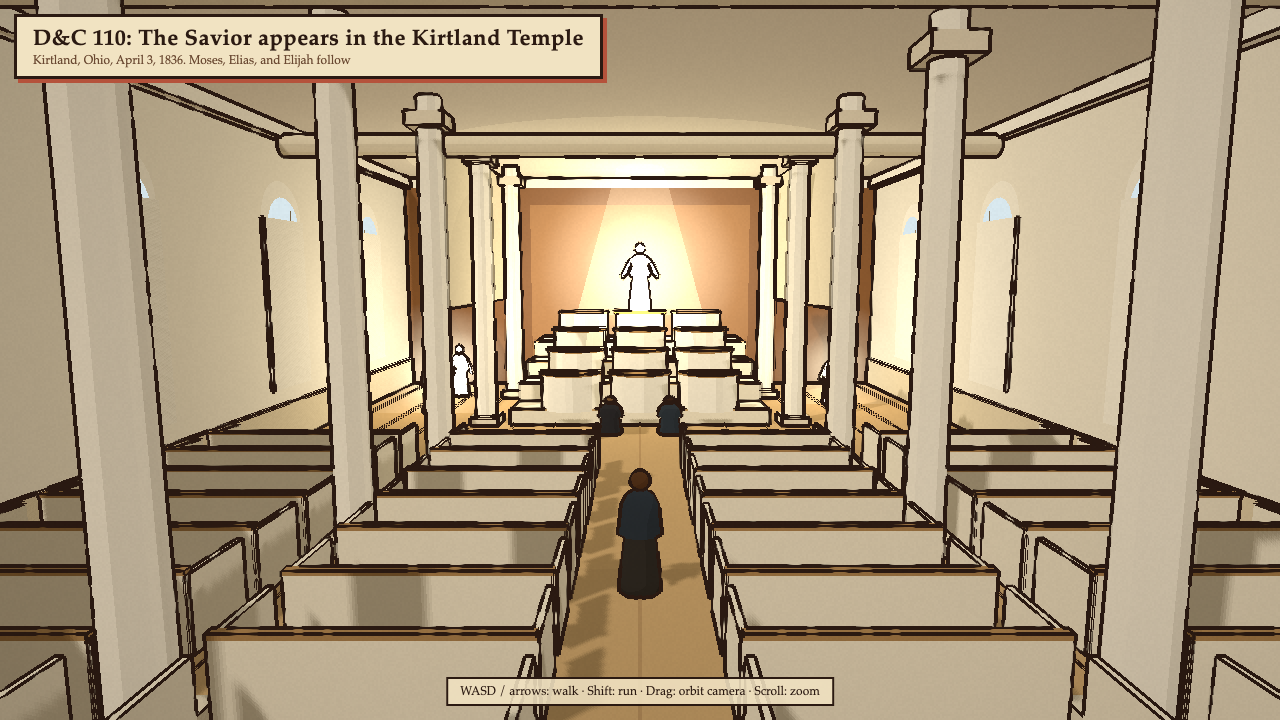
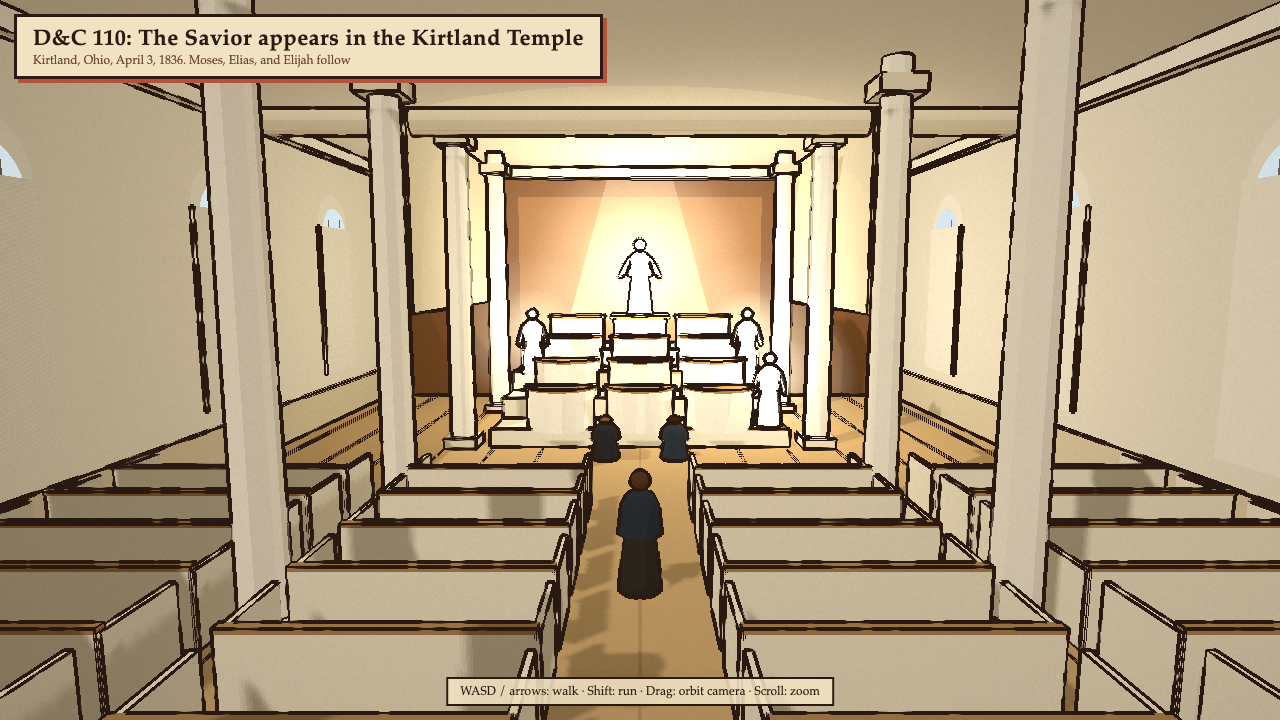
feat: polish toon scenes dc-08 to dc-14

diff --git a/styles/toon/scenes/dc-14.js b/styles/toon/scenes/dc-14.js
@@ -4,7 +4,7 @@
 import { Batch, baseStyle, box, cyl, glow, heavenly, makeRng, stars } from './lib/dc-08-kit.js';
 
 const LORD = [0, -30];
-const GULF_X = 76;
+const GULF_X = 42;
 
 function custom(ctx) {
   const { THREE } = ctx;
@@ -14,27 +14,33 @@ function custom(ctx) {
 
   // A low round dais where the Savior stands.
   const [lx, lz] = LORD;
-  b.add('#f4ecd8', cyl(6, 6.3, 0.5, [lx, 0.25, lz], [0, 0, 0], 40));
-  b.add('#fbf6ea', cyl(3.6, 3.8, 0.5, [lx, 0.75, lz], [0, 0, 0], 40));
-  ctx.addCollider({ x: lx, z: lz, hx: 4.6, hz: 4.6, rot: 0, top: 0.5, walkable: true });
-  ctx.addCollider({ x: lx, z: lz, hx: 2.7, hz: 2.7, rot: 0, top: 1.0, walkable: true });
+  b.add('#f4ecd8', cyl(6, 6.3, 0.6, [lx, 0.3, lz], [0, 0, 0], 40));
+  b.add('#fbf6ea', cyl(3.6, 3.8, 0.8, [lx, 1.0, lz], [0, 0, 0], 40));
+  ctx.addCollider({ x: lx, z: lz, hx: 4.6, hz: 4.6, rot: 0, top: 0.6, walkable: true });
+  ctx.addCollider({ x: lx, z: lz, hx: 2.7, hz: 2.7, rot: 0, top: 1.4, walkable: true });
 
   // The gulf: a dark rift running north and south, and a bridge of light across it.
-  b.add('#0c0c16', box(GULF_X - 64 + 8, 0.06, 700, [GULF_X, 0.05, 0]), { glow: true });
+  b.add('#0c0c16', box(20, 0.06, 700, [GULF_X, 0.05, 0]), { glow: true });
   for (const sx of [-1, 1]) b.add('#2a2a3a', box(0.6, 0.12, 700, [GULF_X + sx * 10, 0.07, 0]), { cast: false });
   ctx.addCollider({ x: GULF_X, z: (lz - 1.6 - 350) / 2, hx: 10, hz: (lz - 1.6 + 350) / 2, rot: 0, top: 0.8 });
   ctx.addCollider({ x: GULF_X, z: (lz + 1.6 + 350) / 2, hx: 10, hz: (350 - lz - 1.6) / 2, rot: 0, top: 0.8 });
   b.add('#ffe8b0', box(GULF_X - 6, 0.08, 2.8, [(GULF_X + 18) / 2 + 3, 0.09, lz]), { glow: true });
   b.add('#fff4d8', box(26, 0.1, 1.2, [GULF_X + 13, 0.1, lz]), { glow: true });
-  for (let i = 0; i < 28; i++) {
-    const z = -300 + rng() * 600;
-    glow(ctx, { pos: [GULF_X + (rng() - 0.5) * 8, 1 + rng() * 3, z], size: 10 + rng() * 10, color: '#141420', opacity: 0.6, pulse: 0.03, additive: false });
+  for (let i = 0; i < 40; i++) {
+    const z = -160 + rng() * 260;
+    glow(ctx, { pos: [GULF_X + (rng() - 0.5) * 8, 2 + rng() * 5, z], size: 12 + rng() * 10, color: '#141420', opacity: 0.7, pulse: 0.03, additive: false });
+  }
+  const arch = new THREE.QuadraticBezierCurve3(new THREE.Vector3(GULF_X - 13, 0, lz), new THREE.Vector3(GULF_X, 11, lz), new THREE.Vector3(GULF_X + 13, 0, lz));
+  b.add('#fff2c8', new THREE.TubeGeometry(arch, 32, 0.45, 8), { glow: true, cast: false });
+  for (let i = 0; i <= 8; i++) {
+    const p = arch.getPoint(i / 8);
+    glow(ctx, { pos: [p.x, p.y, p.z], size: 5, color: '#ffe6a8', opacity: 0.5, pulse: 0.06 });
   }
   for (let i = 0; i < 12; i++) glow(ctx, { pos: [GULF_X - 6 + i * 2.6, 0.4, lz], size: 2.6, color: '#ffe6a8', opacity: 0.45, pulse: 0.08 });
   b.flush();
 
   // The Savior in white, with light about him.
-  heavenly(ctx, { pos: LORD, y: 1.0, face: [0, 20], scale: 1.3, glowAmt: 0.75, halo: 10, light: { color: '#fff0c8', intensity: 30, distance: 30 }, arms: [0.6, 0.35] });
+  heavenly(ctx, { pos: LORD, y: 1.4, face: [-30, -12], scale: 1.7, glowAmt: 0.75, halo: 10, light: { color: '#fff0c8', intensity: 30, distance: 30 }, arms: [0.6, 0.35] });
 
   // Drifting motes of light over the gathering.
   const n = 260;
@@ -119,16 +125,16 @@ export default {
     aisles: [{ from: [0, 40], to: [0, -24], width: 3.4 }],
     keepClear: [{ kind: 'circle', x: LORD[0], z: LORD[1], r: 6.6 }],
     groups: [
-      { center: LORD, radius: [7, 46], angle: [-Math.PI, 1.38], count: 1500, kneel: 0.25, children: 0.1 },
-      { center: LORD, radius: [7, 46], angle: [1.76, Math.PI], count: 600, kneel: 0.25, children: 0.1 },
-      { shape: 'rect', center: [50, LORD[1]], size: [80, 2.2], count: 70, insideClear: true, facing: [2000, LORD[1]], facingJitter: 0.1, lean: 0.12 },
-      { shape: 'rect', center: [GULF_X + 70, 0], size: [100, 220], count: 900, kneel: 0.15, colors: PRISON, facing: [GULF_X, LORD[1]], facingJitter: 0.8 },
+      { center: LORD, radius: [7, 32], angle: [-Math.PI, 1.38], count: 850, kneel: 0.25, children: 0.1 },
+      { center: LORD, radius: [7, 32], angle: [1.76, Math.PI], count: 330, kneel: 0.25, children: 0.1 },
+      { shape: 'rect', center: [(8 + GULF_X + 14) / 2, LORD[1]], size: [GULF_X + 6, 2.2], count: 50, insideClear: true, facing: [2000, LORD[1]], facingJitter: 0.1, lean: 0.12 },
+      { shape: 'rect', center: [GULF_X + 42, LORD[1] - 20], size: [60, 170], count: 900, kneel: 0.15, colors: PRISON, facing: [GULF_X, LORD[1]], facingJitter: 0.8 },
     ],
   },
 
   player: {
-    start: [0, -5],
-    lookAt: LORD,
+    start: [9, -12],
+    lookAt: [30, -80],
     colors: { robe: '#efe6d0', mantle: '#f8f4ea', skin: '#c08f66', hair: '#3a2418', sash: '#e6dcc4' },
   },
 };

diff --git a/styles/toon/scenes/dc-11.js b/styles/toon/scenes/dc-11.js
@@ -2,8 +2,9 @@
 // the temple on the bluff to the east. x is east, z is south. The river wraps the west and south sides.
 import { Batch, SAINTS, baseStyle, box, cyl, frameHouse, gableGeo, glow, leafTree, logCabin, makeRng, saint, water, xf } from './lib/dc-08-kit.js';
 
-const BLUFF_X = 40, BLUFF_TOP = 58, BLUFF_H = 9;
-const TEMPLE = [112, 22];
+const BLUFF_X = 40, BLUFF_TOP = 54, BLUFF_H = 18;
+const FACE = [[40, 0], [43, 6], [50, 14.5], [54, 18]];
+const TEMPLE = [84, 22];
 const START = [-58, 70];
 const RIVER_W = -95, RIVER_S = 92;
 const STONE = '#ebe3cf';
@@ -43,31 +44,50 @@ function river(ctx) {
 
 function bluff(ctx, b) {
   const { THREE } = ctx;
-  const s = new THREE.Shape();
-  s.moveTo(BLUFF_X, 0);
-  s.lineTo(BLUFF_X + 6, BLUFF_H * 0.45);
-  s.lineTo(BLUFF_TOP, BLUFF_H);
-  s.lineTo(420, BLUFF_H);
-  s.lineTo(420, -1);
-  s.lineTo(BLUFF_X, -1);
-  s.closePath();
-  const g = new THREE.ExtrudeGeometry(s, { depth: 380, bevelEnabled: false });
-  g.translate(0, 0, -300);
-  const m = new THREE.Mesh(g, ctx.kit.toon('#8aa058'));
-  m.receiveShadow = m.castShadow = true;
-  ctx.scene.add(m);
-  // Walkable slope as a run of shallow steps.
-  const n = 24;
+  const slab = (points, color) => {
+    const s = new THREE.Shape();
+    s.moveTo(...points[0]);
+    for (const p of points.slice(1)) s.lineTo(...p);
+    s.closePath();
+    const g = new THREE.ExtrudeGeometry(s, { depth: 380, bevelEnabled: false });
+    g.translate(0, 0, -300);
+    const m = new THREE.Mesh(g, ctx.kit.toon(color));
+    m.receiveShadow = m.castShadow = true;
+    ctx.scene.add(m);
+  };
+  slab([...FACE, [BLUFF_TOP, -1], [BLUFF_X, -1]], '#76844c');
+  slab([[BLUFF_TOP, BLUFF_H], [420, BLUFF_H], [420, -1], [BLUFF_TOP, -1]], '#8aa058');
+  // Walkable face as a run of shallow steps.
+  const faceY = (x) => {
+    for (let k = 1; k < FACE.length; k++) {
+      const [ax, ay] = FACE[k - 1], [bx, by] = FACE[k];
+      if (x <= bx) return ay + ((x - ax) / (bx - ax)) * (by - ay);
+    }
+    return BLUFF_H;
+  };
+  const n = 48;
   for (let i = 0; i < n; i++) {
     const x0 = BLUFF_X + (i / n) * (BLUFF_TOP - BLUFF_X), x1 = BLUFF_X + ((i + 1) / n) * (BLUFF_TOP - BLUFF_X);
     const xm = (x0 + x1) / 2;
-    const t = (xm - BLUFF_X) / (BLUFF_TOP - BLUFF_X);
-    const y = t < 0.33 ? (t / 0.33) * BLUFF_H * 0.45 : BLUFF_H * 0.45 + ((t - 0.33) / 0.67) * BLUFF_H * 0.55;
+    const y = faceY(xm);
     ctx.addCollider({ x: xm, z: -110, hx: (x1 - x0) / 2, hz: 190, rot: 0, top: y, walkable: true });
   }
   ctx.addCollider({ x: (BLUFF_TOP + 420) / 2, z: -110, hx: (420 - BLUFF_TOP) / 2, hz: 190, rot: 0, top: BLUFF_H, walkable: true });
   // A path climbing the bluff toward the temple.
-  b.add('#c8aa78', xf(new THREE.PlaneGeometry(BLUFF_TOP - BLUFF_X + 2, 5), { pos: [(BLUFF_X + BLUFF_TOP) / 2, BLUFF_H / 2 + 0.12, TEMPLE[1]], rot: [-Math.PI / 2, 0, -Math.atan2(BLUFF_H, BLUFF_TOP - BLUFF_X)] }), { cast: false });
+  for (let k = 1; k < FACE.length; k++) {
+    const [ax, ay] = FACE[k - 1], [bx, by] = FACE[k];
+    const len = Math.hypot(bx - ax, by - ay);
+    b.add('#c8aa78', xf(new THREE.PlaneGeometry(len + 0.4, 5), { pos: [(ax + bx) / 2, (ay + by) / 2 + 0.12, TEMPLE[1]], rot: [-Math.PI / 2, 0, -Math.atan2(by - ay, bx - ax)] }), { cast: false });
+  }
+  // Pale limestone ledges breaking through the face.
+  const rng = makeRng(45);
+  for (let i = 0; i < 60; i++) {
+    const z = -280 + rng() * 355;
+    const len = 8 + rng() * 16;
+    if (Math.abs(z - TEMPLE[1]) < len / 2 + 3) continue;
+    const x = BLUFF_X + 2 + rng() * (BLUFF_TOP - BLUFF_X - 4);
+    b.add(['#c8bea4', '#b8ae96', '#d4cab0'][i % 3], box(2.2, 1 + rng() * 1.4, len, [x - 1.1, faceY(x) - 0.2, z]));
+  }
 }
 
 function temple(ctx, b) {
@@ -256,13 +276,14 @@ export default {
       street(-48, -42, -110, 62, 50),
       street(-18, -12, -110, 62, 40),
       street(-78, 18, -7, -3, 30),
-      { shape: 'rect', center: [TEMPLE[0] - 28, TEMPLE[1]], size: [14, 40], count: 60, children: 0.15, facing: TEMPLE, facingJitter: 0.8 },
+      { shape: 'rect', center: [TEMPLE[0] - 24, TEMPLE[1]], size: [7, 40], count: 50, children: 0.15, facing: TEMPLE, facingJitter: 0.8 },
     ],
   },
 
   player: {
     start: START,
     lookAt: TEMPLE,
+    fov: 58,
     colors: { robe: '#2e3640', mantle: '#4a3b2e', skin: '#e8c4a0', hair: '#5a3a22', sash: '#2b2420' },
   },
 };

diff --git a/styles/toon/scenes/dc-13.js b/styles/toon/scenes/dc-13.js
@@ -4,7 +4,7 @@
 import { Batch, SAINTS, baseStyle, box, campfire, logCabin, makeRng, pineTree, saint, smoke, wagon, water } from './lib/dc-08-kit.js';
 
 const RIVER_X = 92;
-const START = [-2, 42];
+const START = [-1, 13];
 
 function custom(ctx) {
   const { THREE } = ctx;
@@ -37,10 +37,10 @@ function custom(ctx) {
       if (rng() < 0.12) continue;
       const rot = z % 30 === 0 ? 0 : Math.PI;
       const c = logCabin(b, ctx, { pos: [x + (rng() - 0.5) * 2, z + (rng() - 0.5) * 2], size: [5 + rng() * 2, 4.4 + rng()], height: 2.2 + rng() * 0.4, rot, snow: true, log: ['#7a5636', '#6a4a30', '#86603c'][Math.floor(rng() * 3)] });
-      if (c && rng() < 0.75) chimneys.push(c);
+      if (c) chimneys.push(c);
     }
   }
-  smoke(ctx, chimneys, { color: '#eeedeb', puffs: 5, rise: 7, size: 0.45 });
+  smoke(ctx, chimneys, { color: '#9ea3ac', opacity: 0.7, size: 1.8 });
 
   // Wagons drawn up along the street and on the open ground by the river.
   const covers = ['#ece4cf', '#e4dac0', '#f0eadc', '#ddd2b8'];
@@ -52,7 +52,7 @@ function custom(ctx) {
   }
 
   // Campfires where companies gather.
-  for (const p of [[2.5, 4], [-3, -32], [70, -20]]) campfire(b, ctx, { pos: p });
+  for (const p of [[-6.5, 12], [-3, -32], [70, -20]]) campfire(b, ctx, { pos: p });
 
   // Bare cottonwoods along the river, snowy cedars on the bluffs behind the camp.
   for (let i = 0; i < 50; i++) pineTree(b, ctx, { pos: [RIVER_X - 4 - rng() * 12, -250 + rng() * 500], height: 8 + rng() * 6, bare: true });
@@ -64,8 +64,12 @@ function custom(ctx) {
   }
   b.flush();
 
-  // Brigham Young addresses a company in the street.
-  saint(ctx, { pos: [0, -6], face: [0, 10], colors: { robe: '#2b2a2e', mantle: '#3d3a44', skin: '#e8c4a0', hair: '#a07850', tall: true }, scale: 1.05 });
+  // Brigham Young addresses a company in the street from a wagon box.
+  const stand = new Batch(ctx);
+  stand.add('#7a5636', box(2.4, 0.9, 1.8, [0, 0.45, -6.4]));
+  stand.flush();
+  ctx.addCollider({ x: 0, z: -6.4, hx: 1.2, hz: 0.9, rot: 0, top: 0.9, walkable: true });
+  saint(ctx, { pos: [0, -6], y: 0.9, face: [0, 10], colors: { robe: '#2b2a2e', mantle: '#3d3a44', skin: '#e8c4a0', hair: '#a07850', tall: true }, scale: 1.05 });
 }
 
 export default {
@@ -110,9 +114,10 @@ export default {
     colors: SAINTS,
     keepClear: [{ kind: 'circle', x: 0, z: -6, r: 3 }],
     groups: [
-      { center: [0, -6], radius: [3.5, 12], angle: [-1.4, 1.4], count: 140, children: 0.2 },
-      { shape: 'rect', center: [0, 20], size: [10, 20], count: 30, children: 0.2, facingJitter: 3 },
-      { center: [2.5, 4], radius: [1.6, 3], count: 10, children: 0.2, facing: [2.5, 4], facingJitter: 0.3 },
+      { center: [0, -6], radius: [3.5, 12], angle: [-1.5, -0.32], count: 75, children: 0.2 },
+      { center: [0, -6], radius: [3.5, 12], angle: [0.32, 1.5], count: 75, children: 0.2 },
+      { shape: 'rect', center: [0, 34], size: [10, 16], count: 30, children: 0.2, facingJitter: 3 },
+      { center: [-6.5, 12], radius: [1.6, 3], count: 10, children: 0.2, facing: [-6.5, 12], facingJitter: 0.3 },
       { center: [-3, -32], radius: [1.6, 3], count: 10, children: 0.2, facing: [-3, -32], facingJitter: 0.3 },
       { center: [70, -20], radius: [1.6, 3.5], count: 14, children: 0.2, facing: [70, -20], facingJitter: 0.3 },
       { shape: 'rect', center: [0, -55], size: [8, 50], count: 40, children: 0.15, facingJitter: 3 },
@@ -121,7 +126,7 @@ export default {
 
   player: {
     start: START,
-    lookAt: [6, -20],
+    lookAt: [0, -14],
     colors: { robe: '#3a3328', mantle: '#6a3a34', skin: '#e8c4a0', hair: '#5a3a22', sash: '#2b2420' },
   },
 };

diff --git a/styles/toon/scenes/lib/dc-08-kit.js b/styles/toon/scenes/lib/dc-08-kit.js
@@ -376,24 +376,55 @@ export function logCabin(b, ctx, { pos, size = [6, 5], height = 2.4, rot = 0, lo
   return null;
 }
 
-// Rising toon smoke puffs from chimneys. sources: list of [x, y, z].
-export function smoke(ctx, sources, { color = '#cfcac4', puffs = 6, rise = 7, size = 0.7 } = {}) {
-  const geo = new THREE.IcosahedronGeometry(1, 1);
+// Soft smoke columns from chimneys, animated on the GPU. sources: list of [x, y, z].
+export function smoke(ctx, sources, { color = '#cfcac4', puffs = 16, rise = 9, size = 1.2, opacity = 0.5 } = {}) {
+  glowTex ??= glowTexture();
   const n = sources.length * puffs;
-  const inst = new THREE.InstancedMesh(geo, ctx.kit.toon(color), n);
-  inst.instanceMatrix.setUsage(THREE.DynamicDrawUsage);
-  inst.frustumCulled = false;
-  ctx.scene.add(inst);
-  ctx.onFrame((t) => {
-    let i = 0;
-    for (const [x, y, z] of sources) {
-      for (let p = 0; p < puffs; p++) {
-        const k = ((t * 0.12 + p / puffs + x * 0.13) % 1);
-        const s = size * (0.4 + k * 1.4) * (1 - k * k * 0.6);
-        inst.setMatrixAt(i++, m4.compose(v3.set(x + k * 2.2 + Math.sin(t + p) * 0.2, y + k * rise, z + k * 0.8), qt.identity(), s3.set(s, s, s)));
-      }
+  const base = new Float32Array(n * 3), phase = new Float32Array(n);
+  let i = 0;
+  for (const [x, y, z] of sources) {
+    for (let p = 0; p < puffs; p++, i++) {
+      base.set([x, y, z], i * 3);
+      phase[i] = p / puffs + x * 0.013;
     }
-    inst.instanceMatrix.needsUpdate = true;
+  }
+  const geo = new THREE.BufferGeometry();
+  geo.setAttribute('position', new THREE.BufferAttribute(base, 3));
+  geo.setAttribute('phase', new THREE.BufferAttribute(phase, 1));
+  const mat = new THREE.ShaderMaterial({
+    uniforms: { map: { value: glowTex }, color: { value: new THREE.Color(color) }, uTime: { value: 0 }, uScale: { value: 400 }, uRise: { value: rise }, uSize: { value: size }, uOpacity: { value: opacity } },
+    vertexShader: /* glsl */ `
+      attribute float phase;
+      uniform float uTime, uScale, uRise, uSize;
+      varying float vAlpha;
+      void main() {
+        float k = fract(uTime * 0.07 + phase);
+        vec3 p = position + vec3(k * k * 3.0 + sin(uTime * 0.6 + phase * 20.0) * 0.15 * k, k * uRise, k * 1.2);
+        vec4 mv = modelViewMatrix * vec4(p, 1.0);
+        gl_Position = projectionMatrix * mv;
+        gl_PointSize = uSize * (1.0 + k * 3.0) * uScale / -mv.z;
+        vAlpha = smoothstep(0.0, 0.08, k) * (1.0 - k) * (1.0 - smoothstep(250.0, 500.0, -mv.z));
+      }`,
+    fragmentShader: /* glsl */ `
+      uniform sampler2D map;
+      uniform vec3 color;
+      uniform float uOpacity;
+      varying float vAlpha;
+      void main() {
+        float a = texture2D(map, gl_PointCoord).a * vAlpha * uOpacity;
+        if (a < 0.01) discard;
+        gl_FragColor = vec4(color, a);
+      }`,
+    transparent: true,
+    depthWrite: false,
+  });
+  const pts = new THREE.Points(geo, mat);
+  pts.frustumCulled = false;
+  pts.layers.set(FX_LAYER);
+  ctx.scene.add(pts);
+  ctx.onFrame((t, dt, camera) => {
+    mat.uniforms.uTime.value = t;
+    mat.uniforms.uScale.value = (innerHeight * Math.min(devicePixelRatio || 1, 2)) / (2 * Math.tan(THREE.MathUtils.degToRad(camera.fov) / 2));
   });
 }
 

diff --git a/styles/toon/scenes/dc-08.js b/styles/toon/scenes/dc-08.js
@@ -116,8 +116,8 @@ function custom(ctx) {
   shaft(ctx, { from: [0, H, -12.2], to: [0, lordY, -12.2], radius: [0.8, 2.2], color: '#fff2c9', opacity: 0.22 });
 
   // Moses, Elias and Elijah.
-  for (const pos of [[-6.4, -12.2], [-6.4, -9.0], [6.4, -10.6]]) {
-    heavenly(ctx, { pos, face: [0, -6], scale: 1.08, glowAmt: 0.45, halo: 4.5, light: { color: '#fff0d0', intensity: 6, distance: 9 }, arms: [0.3, 0.2] });
+  for (const pos of [[-3.1, -10.4], [3.1, -10.4], [3.3, -7.9]]) {
+    heavenly(ctx, { pos, face: [0, 6], scale: 1.08, glowAmt: 0.45, halo: 4.5, light: { color: '#fff0d0', intensity: 6, distance: 9 }, arms: [0.3, 0.2] });
   }
 
   // Joseph Smith and Oliver Cowdery kneel in prayer before the pulpits.
@@ -151,7 +151,7 @@ export default {
   custom,
 
   player: {
-    start: [0, 3.2],
+    start: [0, 0.6],
     lookAt: [0, -12],
     colors: { robe: '#34302c', mantle: '#2e3640', skin: '#e8c4a0', hair: '#5a3a22', sash: '#e8e2d2' },
   },

diff --git a/styles/toon/scenes/dc-12.js b/styles/toon/scenes/dc-12.js
@@ -145,8 +145,8 @@ export default {
   custom,
 
   player: {
-    start: [2.6, 2.0],
-    lookAt: [-0.6, -2.2],
+    start: [-1.6, 2.4],
+    lookAt: [-3.4, -4.4],
     colors: { robe: '#45403a', mantle: '#45403a', skin: '#e8c4a0', hair: '#5a3a22', sash: '#efe6d2' },
   },
 };

diff --git a/styles/toon/scenes/dc-10.js b/styles/toon/scenes/dc-10.js
@@ -107,8 +107,8 @@ export default {
   custom,
 
   player: {
-    start: [1.6, -0.2],
-    lookAt: [0.4, -4.4],
+    start: [-1.0, -1.4],
+    lookAt: [-2.2, -7],
     colors: { robe: '#2b2a2e', mantle: '#3a3328', skin: '#e8c4a0', hair: '#5a3a22', sash: '#4a3b2e' },
   },
 };

diff --git a/styles/toon/scenes/dc-09.js b/styles/toon/scenes/dc-09.js
@@ -170,8 +170,8 @@ export default {
   },
 
   player: {
-    start: [19, 4.6],
-    lookAt: [-20, -0.5],
+    start: [-46, 10],
+    lookAt: [-34, -12],
     colors: { robe: '#3a3328', mantle: '#4a3b2e', skin: '#e8c4a0', hair: '#5a3a22', sash: '#2b2420' },
   },
 };
